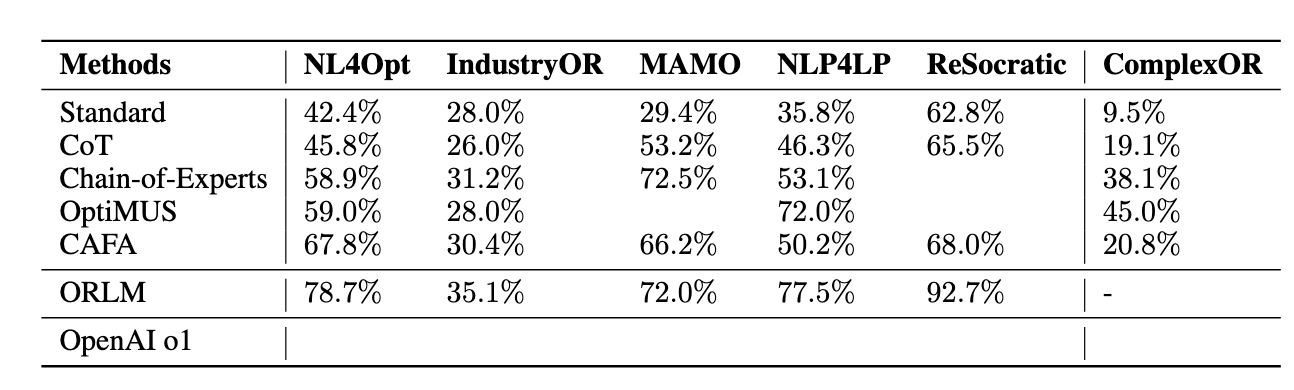
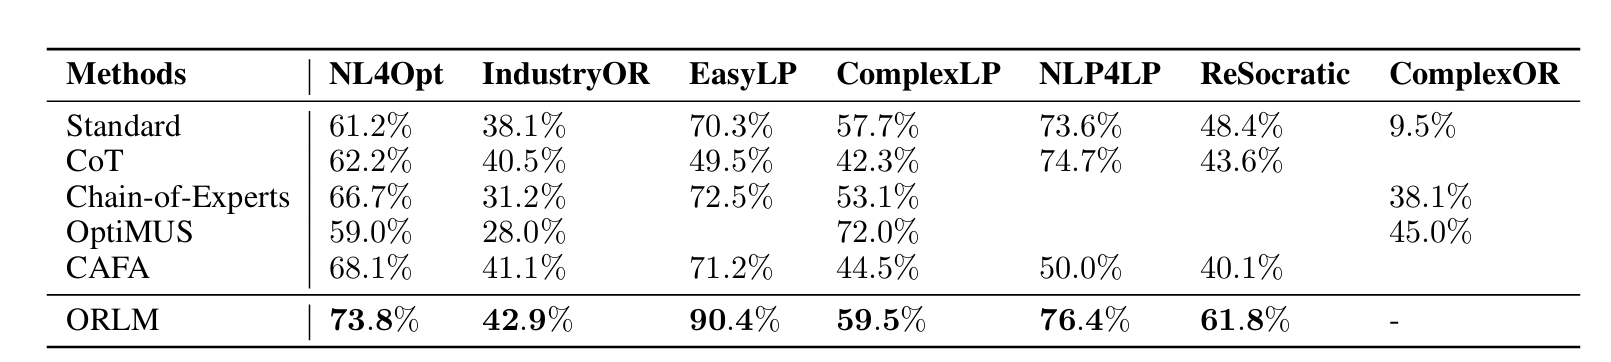
page completed

Changed region(s): [[0.0309, 0.0912, 0.9892, 0.8204], [0.0309, 0.8508, 0.9892, 0.9724], [0.8346, 0.7293, 0.8655, 0.7597]]

diff --git a/index.html b/index.html
@@ -22,7 +22,20 @@
   <!-- Keywords for your paper to be indexed by-->
   <meta name="keywords" content="KEYWORDS SHOULD BE PLACED HERE">
   <meta name="viewport" content="width=device-width, initial-scale=1">
-
+  <meta charset="UTF-8">
+    <meta name="viewport" content="width=device-width, initial-scale=1.0">
+    <link rel="stylesheet" href="https://cdnjs.cloudflare.com/ajax/libs/bulma/0.9.3/css/bulma.min.css">
+    <style>
+        .image-container {
+            display: flex;
+            justify-content: space-around;
+            align-items: center;
+        }
+        .image-container img {
+            max-width: 100%;
+            height: auto;
+        }
+    </style>
 
   <title>LLM for Optimization Modeling</title>
   <link rel="icon" type="image/x-icon" href="static/images/icon.png">
@@ -52,7 +65,7 @@
       <div class="container is-max-desktop">
         <div class="columns is-centered">
           <div class="column has-text-centered">
-            <h1 class="title is-1 publication-title">LLM for Optimization Modeling</h1>
+            <h1 class="title is-1 publication-title">Optimization Modeling in the Era of LLMs: Progress and Future Directions</h1>
             <div class="is-size-5 publication-authors">
               <!-- Paper authors -->
               <span class="author-block">
@@ -65,7 +78,7 @@
                   </div>
 
                   <div class="is-size-5 publication-authors">
-                    <span class="author-block">Institution Name<br>Conferance name and year</span>
+                    <span class="author-block">Institution Name<br>Conference Name</span>
                     <span class="eql-cntrb"><small><br><sup>*</sup>Indicates Equal Contribution</small></span>
                   </div>
 
@@ -148,7 +161,7 @@
         <h2 class="title is-3">Abstract</h2>
         <div class="content has-text-justified">
           <p>
-            Lorem ipsum dolor sit amet, consectetur adipiscing elit. Proin ullamcorper tellus sed ante aliquam tempus. Etiam porttitor urna feugiat nibh elementum, et tempor dolor mattis. Donec accumsan enim augue, a vulputate nisi sodales sit amet. Proin bibendum ex eget mauris cursus euismod nec et nibh. Maecenas ac gravida ante, nec cursus dui. Vivamus purus nibh, placerat ac purus eget, sagittis vestibulum metus. Sed vestibulum bibendum lectus gravida commodo. Pellentesque auctor leo vitae sagittis suscipit.
+            By virtue of its great utility in solving real-world problems, optimization modeling has been widely employed for optimal decision-making across various sectors, but it requires substantial expertise from operations research professionals. With the advent of large language models (LLMs), new opportunities have emerged to automate the procedure of mathematical modeling. This survey presents a comprehensive and timely review of recent advancements. First, we categorize the research based on the technical stack, including data synthesis and fine-tuning for the base model, more advanced inference frameworks, benchmarks, and evaluation metrics. Second, we conduct an in-depth analysis on the quality of benchmark datasets and deliver new insights on the reported results upon these datasets. Third, we build an online portal that aggregates existing datasets and algorithms. Finally, we identify limitations in current methodologies and outline future research opportunities
           </p>
         </div>
       </div>
@@ -158,68 +171,18 @@
 <!-- End paper abstract -->
 
 
-
-
-<!-- Datasets Section -->
+<!-- categorization  Section -->
 <section class="section hero is-small">
   <div class="container is-max-desktop">
     <div class="columns is-centered has-text-centered">
       <div class="column is-four-fifths">
-        <h2 class="title is-3">Datasets</h2>
-        <div class="content has-text-justified">
-          <p>Below are the OR datasets used for evaluating LLMs, and we have provided download Links. </p>
-          <ul>
-            <li>
-              <a href="./static/datasets/ComplexOR/" download>
-                <i class="fas fa-download"></i> ComplexOR (Description of ComplexOR)
-              </a>
-            </li>
-            <li>
-              <a href="./static/datasets/IndustryOR/" download>
-                <i class="fas fa-download"></i> IndustryOR (Description of IndustryOR)
-              </a>
-            </li>
-            <li>
-              <a href="./static/datasets/Mamo" download>
-                <i class="fas fa-download"></i> Mamo (Description of Mamo)
-              </a>
-            </li>
-            <li>
-              <a href="./static/datasets/NL4Opt" download>
-                <i class="fas fa-download"></i> NL4Opt (Description of NL4Opt)
-              </a>
-            </li>
-            <li>
-              <a href="./static/datasets/NLP4LP" download>
-                <i class="fas fa-download"></i> NLP4LP (Description of NLP4LP)
-              </a>
-            </li>
-            <li>
-              <a href="./static/datasets/ReSocratic" download>
-                <i class="fas fa-download"></i> ReSocratic (Description of ReSocratic)
-              </a>
-            </li>
-          </ul>
-        </div>
-      </div>
-    </div>
-  </div>
-</section>
-<!-- End Datasets Section -->
-
-
-<!-- Results Section -->
-<section class="section hero is-light">
-  <div class="container is-max-desktop">
-    <div class="columns is-centered has-text-centered">
-      <div class="column is-four-fifths">
-        <h2 class="title is-3">Results</h2>
+        <h2 class="title is-3">Categorization</h2>
         <div class="content has-text-centered">
-          <img src="static/images/result.png" 
-               alt="Result of evaluating OR LLMs" 
-               style="transform: scale(1.25); display: block; margin: 0 auto; margin-bottom: 40px;">
+          <img src="static/images/divide.png" 
+            alt="categorization of OR LLMs" 
+            style="transform: scale(1.25); display: block; margin: 50px auto 100px;">
           <p>
-            Results of evaluating LLMs on existing OR benchmarks.
+            <strong>Categorization of the existing LLM4OR research based on the technical stack</strong>. Left: Taxonomy of LLMs for Operations Research Modeling. Right: We present representative works for each category, sorted by their publication dates
           </p>
         </div>
       </div>
@@ -227,6 +190,157 @@
   </div>
 </section>
 <!-- End Results Section -->
+
+<!-- benchmarks Section -->
+<section class="section hero is-light">
+  <!-- Benchmarks -->
+  <div class="container is-max-desktop">
+    <div class="columns is-centered has-text-centered">
+      <div class="column is-four-fifths">
+        <h2 class="title is-3">Benchmarks</h2>
+
+        <div class="content has-text-justified">
+          <p>Below are the OR benchmarks used for evaluating LLMs.</p>
+          <div class="content">
+            <ul>
+                <li>
+                    Chain-of-Experts: When LLMs Meet Complex Operation Research, <em>Xiao et al.</em>
+                    <div>
+                        <a href="https://openreview.net/forum?id=HobyL1B9CZ"><img src="https://img.shields.io/badge/OpenReview-Paper-red"></a>
+                        <a href="https://github.com/xzymustbexzy/Chain-of-Experts"><img src="https://img.shields.io/github/stars/xzymustbexzy/Chain-of-Experts?style=social"></a>
+                    </div>
+                </li>
+                <li>
+                    ORLM: A Customizable Framework in Training Large Models for Automated Optimization Modeling, <em>Huang et al.</em>
+                    <div>
+                        <a href="https://arxiv.org/abs/2405.17743"><img src="https://img.shields.io/badge/arXiv-Paper-B31B1B.svg"></a>
+                        <a href="https://github.com/Jeff-LiangF/FlowVid"><img src="https://img.shields.io/github/stars/Jeff-LiangF/FlowVid?style=social"></a>
+                    </div>
+                </li>
+                <li>
+                    Mamo: a Mathematical Modeling Benchmark with Solvers, <em>Huang et al.</em>
+                    <div>
+                        <a href="https://arxiv.org/abs/2405.13144"><img src="https://img.shields.io/badge/arXiv-Paper-B31B1B.svg"></a>
+                    </div>
+                </li>
+                <li>
+                    NL4Opt Competition: Formulating Optimization Problems Based on Their Natural Language Descriptions
+                    <div>
+                        <a href="https://proceedings.mlr.press/v220/ramamonjison23a.html"><img src="https://img.shields.io/badge/PMLR-Paper-red"></a>
+                        <a href="https://nl4opt.github.io/"><img src="https://img.shields.io/badge/project-Website-%23009BD5"></a>
+                        <a href="https://github.com/nl4opt/nl4opt-competition"><img src="https://img.shields.io/github/stars/nl4opt/nl4opt-competition?style=social"></a>
+                    </div>
+                </li>
+                <li>
+                    OptiMUS: Scalable Optimization Modeling with (MI)LP Solvers and Large Language Models, <em>AhmadiTeshnizi et al.</em>
+                    <div>
+                        <a href="https://arxiv.org/abs/2402.10172"><img src="https://img.shields.io/badge/arXiv-Paper-B31B1B.svg"></a>
+                        <a href="https://optimus-solver.com//"><img src="https://img.shields.io/badge/project-Website-%23009BD5"></a>
+                        <a href="https://github.com/teshnizi/OptiMUS"><img src="https://img.shields.io/github/stars/teshnizi/OptiMUS?style=social"></a>
+                    </div>
+                </li>
+                <li>
+                    OptiBench Meets ReSocratic: Measure and Improve LLMs for Optimization Modeling, <em>Yang et al.</em>
+                    <div>
+                        <a href="https://arxiv.org/abs/2407.09887"><img src="https://img.shields.io/badge/arXiv-Paper-B31B1B.svg"></a>
+                        <a href="https://github.com/yangzhch6/ReSocratic"><img src="https://img.shields.io/github/stars/yangzhch6/ReSocratic?style=social"></a>
+                    </div>
+                </li>
+            </ul>
+        </div>
+        
+        <p>We provide download links for each dataset Here.</p>
+          <ul>
+            <li>
+              <a href="./static/datasets/ComplexOR/" download>
+                <i class="fas fa-download"></i> ComplexOR 
+              </a>
+            </li>
+            <li>
+              <a href="./static/datasets/IndustryOR/" download>
+                <i class="fas fa-download"></i> IndustryOR 
+              </a>
+            </li>
+            <li>
+              <a href="./static/datasets/Mamo" download>
+                <i class="fas fa-download"></i> Mamo 
+              </a>
+            </li>
+            <li>
+              <a href="./static/datasets/NL4Opt" download>
+                <i class="fas fa-download"></i> NL4Opt 
+              </a>
+            </li>
+            <li>
+              <a href="./static/datasets/NLP4LP" download>
+                <i class="fas fa-download"></i> NLP4LP 
+              </a>
+            </li>
+            <li>
+              <a href="./static/datasets/ReSocratic" download>
+                <i class="fas fa-download"></i> ReSocratic 
+              </a>
+            </li>
+          </ul>
+        </div>
+      </div>
+    </div>
+
+</section>
+
+<!-- Analysis -->
+<section class="section hero is-small">
+  <div class="columns is-centered has-text-centered">
+    <div class="column is-four-fifths">
+        <h2 class="title is-3">Analysis on Benchmark Datasets</h2>
+        <div class="content has-text-centered">
+            <div class="columns is-centered">
+                <div class="column is-half">
+                    <div class="image-container">
+                        <img src="static/images/error.png" 
+                             alt="Result of evaluating OR LLMs - Part A">
+                    </div>
+                    <p>
+                      <em>(a) Statistics related to the OR modeling benchmarks</em>
+                    </p>
+                </div>
+                <div class="column is-half">
+                    <div class="image-container">
+                        <img src="static/images/complexity.png" 
+                             alt="Result of evaluating OR LLMs - Part B">
+                    </div>
+                    <p>
+                      <em>(b) Statistical analysis of problemcomplexity across all benchmarks</em>
+                    </p>
+                </div>
+            </div>
+            <p>
+                Performance Comparison of Existing Methods over all benchmarks
+            </p>
+        </div>
+    </div>
+</div>
+</section>
+
+  
+<section class="section hero is-light">
+    <!-- Results -->
+    <div class="columns is-centered has-text-centered">
+      <div class="column is-four-fifths">
+        <h2 class="title is-3">LeaderBoard</h2>
+        <div class="content has-text-centered">
+          <img src="static/images/result.png" 
+               alt="Result of evaluating OR LLMs" 
+               style="transform: scale(1); display: block; margin: 0 auto; margin-bottom: 50px;">
+          <p>
+            Performance Comparison of Existing Methods over all benchmarks
+          </p>
+        </div>
+      </div>
+    </div>
+  </div>
+</section>
+
 
 
 

diff --git a/README.md b/README.md
@@ -1,43 +1,50 @@
-# LLM for Optimization Modeling
+# Optimization Modeling in the Era of LLMs: Progress and Future Directions
 
-author
-
-Institution
-
-Conference name and year
+(survey information and link)
 
 ## Introduction
 
-Introduce the division of OR LLM papers.
+<p align="center">
+<img src="static/images/divide.png" width="85%">
+<br><em> Overview of representative works in each step of optimization modeling using LLMs.</em>
+<br><em> Left: Taxonomy of LLMs for Operations Research Modeling. Right: We present representative works for each category, sorted by their publication dates</em>
+</p>
+
+## LeaderBoard
+<p align="center">
+<img src="static/images/result.png" width="85%">
+<br><em>Performance Comparison of Existing Methods over OR benchmarks.</em>
+</p>
+
+## Data Synthesis and Fine-tuning
+- LLMOPT: Learning to Define and Solve General Optimization Problems from Scratch, *Jiang et al.* 
+    - <a href="https://arxiv.org/abs/2410.13213"><img src="https://img.shields.io/badge/arXiv-Paper-B31B1B.svg"></a> <a href="https://github.com/caigaojiang/LLMOPT"><img src="https://img.shields.io/github/stars/caigaojiang/LLMOPT?style=social"></a>
+- Evo-Step: Evolutionary Generation and Stepwise Validation for Optimizing LLMs in OR, *Wu et al.* 
+    - <a href="https://openreview.net/forum?id=aapUBU9U0D"><img src="https://img.shields.io/badge/OpenReview-Paper-red"></a> <a href="https://github.com/samwu-learn/Evo-Step"><img src="https://img.shields.io/github/stars/samwu-learn/Evo-Step?style=social"></a>
+## Inference
+
+## Benchmarks
+- Chain-of-Experts: When LLMs Meet Complex Operation Research, *Xiao et al.* 
+    - <a href="https://openreview.net/forum?id=HobyL1B9CZ"><img src="https://img.shields.io/badge/OpenReview-Paper-red"></a> <a href="https://github.com/xzymustbexzy/Chain-of-Experts"><img src="https://img.shields.io/github/stars/xzymustbexzy/Chain-of-Experts?style=social"></a>
+- ORLM: A Customizable Framework in Training Large Models for Automated Optimization Modeling, *Huang et al.*
+    - <a href="https://arxiv.org/abs/2405.17743"><img src="https://img.shields.io/badge/arXiv-Paper-B31B1B.svg"></a> <a href="https://github.com/Jeff-LiangF/FlowVid"><img src="https://img.shields.io/github/stars/Jeff-LiangF/FlowVid?style=social"></a>  
+- Mamo: a Mathematical Modeling Benchmark with Solvers , *Huang et al.*
+    - <a href="https://arxiv.org/abs/2405.13144"><img src="https://img.shields.io/badge/arXiv-Paper-B31B1B.svg"></a>
+- NL4Opt Competition: Formulating Optimization Problems Based on Their Natural Language Descriptions
+    - <a href="https://proceedings.mlr.press/v220/ramamonjison23a.html"><img src="https://img.shields.io/badge/PMLR-Paper-red"></a> <a href="https://nl4opt.github.io/"><img src="https://img.shields.io/badge/project-Website-%23009BD5"></a> <a href="https://github.com/nl4opt/nl4opt-competition"><img src="https://img.shields.io/github/stars/nl4opt/nl4opt-competition?style=social"></a>
+
+- OptiMUS: Scalable Optimization Modeling with (MI)LP Solvers and Large Language Models, *AhmadiTeshnizi et al.*
+    - <a href="https://arxiv.org/abs/2402.10172"><img src="https://img.shields.io/badge/arXiv-Paper-B31B1B.svg"></a> <a href="https://optimus-solver.com//"><img src="https://img.shields.io/badge/project-Website-%23009BD5"></a> <a href="https://github.com/teshnizi/OptiMUS"><img src="https://img.shields.io/github/stars/teshnizi/OptiMUS?style=social"></a>
+- OptiBench Meets ReSocratic: Measure and Improve LLMs for Optimization Modeling, *Yang et al.*
+    - <a href="https://arxiv.org/abs/2407.09887"><img src="https://img.shields.io/badge/arXiv-Paper-B31B1B.svg"></a> <a href="https://github.com/yangzhch6/ReSocratic"><img src="https://img.shields.io/github/stars/yangzhch6/ReSocratic?style=social"></a>
 
 ## Citation
+
 If you find this repository helpful, please consider citing our paper:
+
 ```bibtex
 @article{
 
 }
 ```
-
-## LeaderBoard
-<p align="center">
-<img src="static/images/result.png" width="85%">
-<br><em>Results of evaluating LLMs on existing OR benchmarks</em>
-</p>
-
-## Datasets
-- Chain-of-Experts: When LLMs Meet Complex Operation Research, *Xiao et al.* 
-    - <a href="https://openreview.net/forum?id=HobyL1B9CZ"><img src="https://img.shields.io/badge/OpenReview-Paper-red"></a><a href="https://github.com/xzymustbexzy/Chain-of-Experts"><img src="https://img.shields.io/github/stars/xzymustbexzy/Chain-of-Experts?style=social"></a>
-- ORLM: A Customizable Framework in Training Large Models for Automated Optimization Modeling, *Huang et al.*
-    - <a href="https://arxiv.org/abs/2405.17743"><img src="https://img.shields.io/badge/arXiv-Paper-B31B1B.svg"></a><a href="https://github.com/Jeff-LiangF/FlowVid"><img src="https://img.shields.io/github/stars/Jeff-LiangF/FlowVid?style=social"></a>  
-- Mamo: a Mathematical Modeling Benchmark with Solvers , *Huang et al.*
-    - <a href="https://arxiv.org/abs/2405.13144"><img src="https://img.shields.io/badge/arXiv-Paper-B31B1B.svg"></a>
-- NL4Opt Competition: Formulating Optimization Problems Based on Their Natural Language Descriptions
-    - <a href="https://proceedings.mlr.press/v220/ramamonjison23a.html"><img src="https://img.shields.io/badge/PMLR-Paper-red"></a><a href="https://nl4opt.github.io/"><img src="https://img.shields.io/badge/project-Website-%23009BD5"></a><a href="https://github.com/nl4opt/nl4opt-competition"><img src="https://img.shields.io/github/stars/nl4opt/nl4opt-competition?style=social"></a>
-
-- OptiMUS: Scalable Optimization Modeling with (MI)LP Solvers and Large Language Models, *AhmadiTeshnizi et al.*
-    - <a href="https://arxiv.org/abs/2402.10172"><img src="https://img.shields.io/badge/arXiv-Paper-B31B1B.svg"></a> <a href="https://optimus-solver.com//"><img src="https://img.shields.io/badge/project-Website-%23009BD5"></a><a href="https://github.com/teshnizi/OptiMUS"><img src="https://img.shields.io/github/stars/teshnizi/OptiMUS?style=social"></a>
-- OptiBench Meets ReSocratic: Measure and Improve LLMs for Optimization Modeling, *Yang et al.*
-    - <a href="https://arxiv.org/abs/2407.09887"><img src="https://img.shields.io/badge/arXiv-Paper-B31B1B.svg"></a> <a href="https://github.com/yangzhch6/ReSocratic"><img src="https://img.shields.io/github/stars/yangzhch6/ReSocratic?style=social"></a>
-## Papers
-
 
